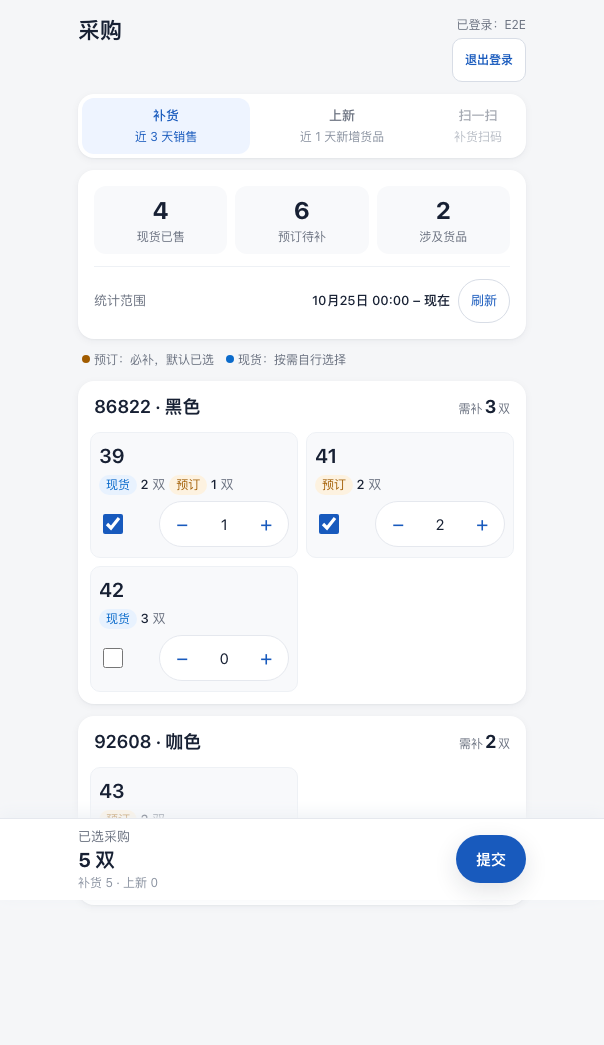
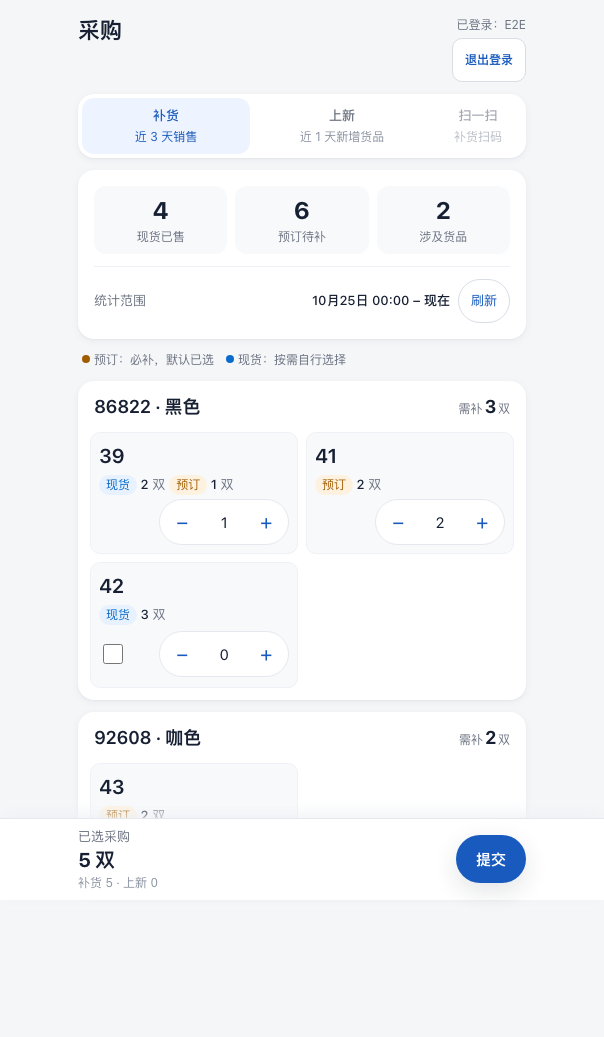
fix(procurement): 预订（必补）尺码行不再显示勾选框（业务负责人 2026-10-29 批注）
- 「预订」= 必补、默认已选 ⇒ 勾选框/对勾是多余的：预订行（含现货+预订混合行）不渲染勾选框；
- 只有「只有现货」的尺码行保留勾选框（现货按需自行选择；勾上数量=现货数）；
- 无勾选框的行数量框右对齐（视觉不空一块）；
- e2e 更新：预订行无 [data-pr-check]；只有现货行可勾选；docs 增 AC-P18b。
- 全量 2262 tests / 2261 pass / 0 fail；e2e 14 passed。

diff --git a/server/public/workbench/features/procurement/render.js b/server/public/workbench/features/procurement/render.js
@@ -51,7 +51,7 @@ const legendHtml = (tab, config) => {
   return `<div class="pr-legend">${items}</div>`;
 };
 
-const stepperHtml = ({ recordId, size, quantity, config, suffix }) => `<div class="pr-pick">
+const stepperHtml = ({ recordId, size, quantity, config, suffix }) => `<div class="pr-pick${suffix ? '' : ' pr-pick-no-check'}">
     ${suffix || ''}
     <div class="pr-stepper">
       <button type="button" data-pr-step="-1" data-record="${escapeHtml(recordId)}" data-size="${escapeHtml(size)}">−</button>
@@ -80,7 +80,10 @@ const saleTagsHtml = (row, config) => {
 
 const replenishRowHtml = (group, row, draft, store, config) => {
   const quantity = store.quantityOf(draft, group.productRecordId, row.size);
-  const checkbox = `<label><input type="checkbox" data-pr-check data-record="${escapeHtml(group.productRecordId)}"
+  // 业务负责人 2026-10-29 批注：**预订行是必补、默认已选** ⇒ 不显示勾选框（那个"对勾"是多余的）；
+  // 只有「只有现货」的尺码才需要勾选（现货按需自行选择）。
+  const prepaidOnlyOrMixed = Number(row.prepaidSold) > 0;
+  const checkbox = prepaidOnlyOrMixed ? '' : `<label><input type="checkbox" data-pr-check data-record="${escapeHtml(group.productRecordId)}"
     data-size="${escapeHtml(row.size)}"${quantity > 0 ? ' checked' : ''}></label>`;
   return `<div class="pr-size-row">
     <div class="pr-size">${escapeHtml(row.size)}</div>

diff --git a/server/public/workbench/procurement.css b/server/public/workbench/procurement.css
@@ -66,6 +66,7 @@
 
 /* 勾选 + 数量步进器 */
 .pr-pick { display: flex; align-items: center; justify-content: space-between; gap: var(--space-1); min-width: 0; }
+.pr-pick-no-check { justify-content: flex-end; }
 .pr-pick label { display: flex; align-items: center; }
 .pr-pick input[type="checkbox"] { width: 20px; height: 20px; accent-color: var(--primary); }
 .pr-stepper { display: flex; align-items: center; height: 46px; border: 1px solid var(--border); border-radius: var(--radius-pill); background: var(--surface); overflow: hidden; }

diff --git a/docs/procurement-page-real-2026-10-28.md b/docs/procurement-page-real-2026-10-28.md
@@ -109,6 +109,8 @@ tab 切换保留当前会话已选数据；点「提交」才统一写入
 - **AC-P17 薄壳 + 模块化**：`procurement.html` 只做壳（引 CSS/模块、挂载根节点，≤200 行）；业务逻辑全在
   `features/procurement/**`；文案/默认值/尺码规则/端点/刷新参数全在 `config/procurement.js`；
   新文件每个 ≤200 行；**不往旧 398 行演示页补逻辑，整体替换**。
+- **AC-P18b 预订行不显示勾选框**（业务负责人 2026-10-29 批注）：**预订（含现货+预订混合）尺码行不出现勾选框**，
+  因为"预订必补、默认已选"，那个对勾是多余的；**只有「只有现货」的尺码行**才有勾选框（现货按需自行选择，勾上数量=现货数）。
 - **AC-P18 视觉 = 原型**：三 tab（补货 / 上新 / 扫一扫）、顶部统计卡、统计范围、图例、分组卡、尺码行、底部固定提交条
   与 `docs/prototypes/procurement-board-2026-10-27.html` 一致；**颜色只引用 `styles/tokens.css` 的 token，
   不写 hex/rgb，不写内联 style**（反向哨兵：新文件里 `#rrggbb` / `rgb(` / `style="` 出现即红）。
